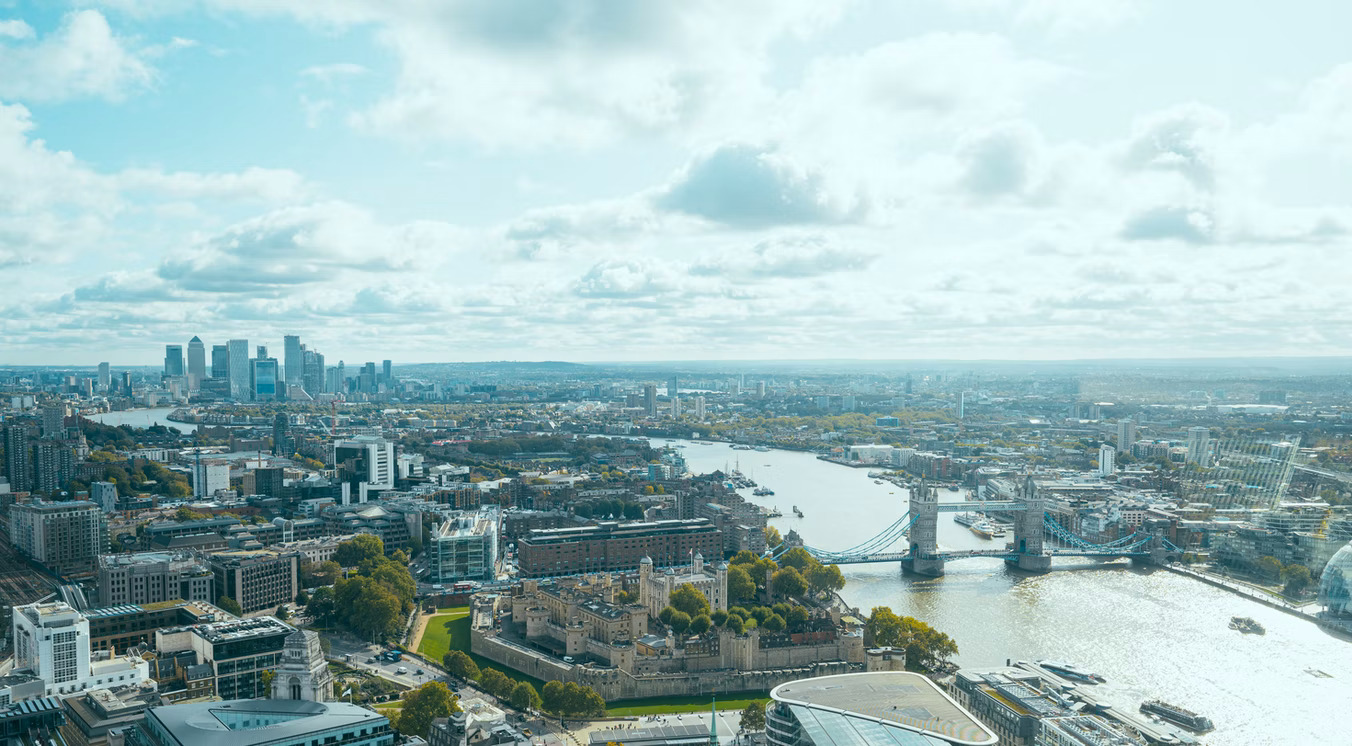
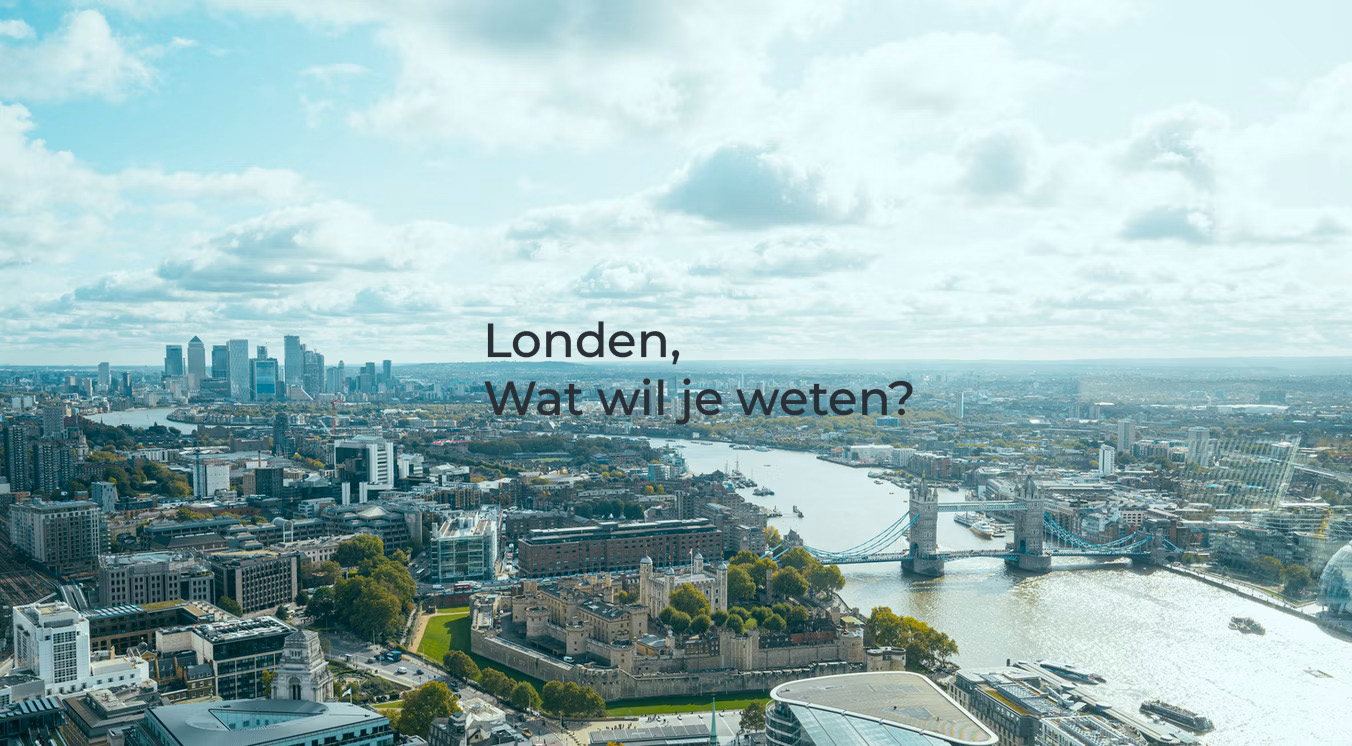
13-4-22
teksten en opmaak deel 1

Changed region(s): [[0.3417, 0.4316, 0.6834, 0.5858]]

diff --git a/Index.html b/Index.html
@@ -27,16 +27,28 @@
 </head>
 <body>
     <!-- Navigatie balk -->
-    <div class="topnav">
+    <!-- <div class="topnav">
         <a class="links"> <b>Londen, wat wil je weten?</b></a>
         <div class="topnav-right">
             <a class="rechts" href="#home">Over Londen</a>
             <a class="rechts" href="#news">Kaart en statistiek</a>
         </div>
-    </div>
+    </div> -->
 
     <!-- Header image -->
     <div id="header"> </div>
+
+    <!-- Informatie over London-->
+    <h1>Over Londen</h1>
+        <p>
+            In de regio 'Groot-Londen', waarvan de begrenzing vaak gelijk wordt gesteld aan die van de stad Londen, wonen bijna 8,7 miljoen mensen. De hele regio van de metropool strekt zich evenwel nog ver uit buiten de grenzen van Groot-Londen. 
+            De grenzen hiervan zijn niet gemakkelijk aan te geven, het aantal inwoners ligt tussen de 12 en 14 miljoen. Tussen 1831 en 1925 was Londen de grootste stad ter wereld.
+            De stad is, behalve de hoofdstad en de grootste stad van het Verenigd Koninkrijk, ook het politieke, economische en culturele centrum van dat land. Ook in Europa en de wereld vervult ze een belangrijke functie op diverse gebieden: 
+            Londen wordt als een van de vier traditionele alfa-wereldsteden beschouwd, samen met Parijs, Tokio en New York.
+            Vooral in de 18e en de 19e eeuw was Londen als hoofdstad van het Britse Rijk het absolute politieke en economische machtscentrum van de wereld.
+            Londen telt vier plaatsen die op de Werelderfgoedlijst van de UNESCO staan: de Tower of London, de historische nederzetting van Greenwich, de Kew Gardens, 
+            en een gezamenlijke inschrijving bestaande uit het Palace of Westminster, Westminster Abbey en Saint Margaret's Church.
+        </p>
 
     <!-- Map grid -->
     <div class="grid-container">
@@ -44,22 +56,30 @@
             <div id="mapLeaflet" class="map"></div>
                 <script src="./Javascript/main.js"></script>
             <h1>Map of the city of London</h1>
+            <p>Wist je dat Londen een oppervlakte heeft van 1572 vierkante kilometers? Dat is minimaal vier keer de grote van Rotterdam!</p>
         </div>
         <div class="card">
             <div id="mapLibre" class="map"></div>
                 <script src="./Javascript/Maplibre.js"></script>
-            <p>Map text</p>
+                      <h1>Het Verenigd Koninkrijk</h1>
+                          <p>Het Verenigd Koninkrijk heeft in totaal ongeveer 65,8 miljoen inwoners met een oppervlate van 242.495 vierkante kilometer. </p>
         </div>
         <div class="card" class="map">
             <div id="openLayers" class="map"></div>
                 <script src="./Javascript/openlayers.js"></script>
-            <p>Map text</p>
+                     <h1>Map of the city of London</h1>
+                         <p>Map text</p>
         </div>
         <div class="card" class="map">
-            <iframe id="gmap_canvas" class="map" src="https://maps.google.com/maps?q=londen&t=&z=13&ie=UTF8&iwloc=&output=embed" frameborder="0" scrolling="no" marginheight="0" marginwidth="0"></iframe>
-            <p>Map text</p>
+            <iframe id="gmap_canvas" class="map" src="https://maps.google.com/maps?q=londen&t=&z=13&ie=UTF8&iwloc=&output=embed" frameborder="0"></iframe>
+               <h1>Map of the city of London</h1>
+                  <p>Map text</p>
         </div>
     </div>
+
+    <footer>
+        <p>Gemaakt door Krista de Moor</p>
+    </footer>
 
 </body>
 </html>

diff --git a/CSS/index.css b/CSS/index.css
@@ -12,12 +12,19 @@
     background-repeat: no-repeat; 
     background-size: cover; 
     width: 2000px;
-    height: 1000px;
+    height: 980px;
 }
 
 body {
-  margin: 0;
-  font-family: Arial, Helvetica, sans-serif;
+	font-family: 'Montserrat', sans-serif;
+	background-color: #ffffff;
+	margin-top: 0px;
+	margin-right: 0px;
+	margin-bottom: 0px;
+	margin-left: 0px;
+	font-style: normal;
+	font-weight: 200;
+	width: 100%;
 }
 
 .topnav {
@@ -48,6 +55,7 @@ body {
 .links {
   background-color: #ffffff;
   color: rgb(0, 0, 0);
+
 }
 
 .topnav-right {
@@ -72,3 +80,4 @@ body {
   height: 400px;
   width: 100%;
 }
+

diff --git a/css/index.css b/css/index.css
@@ -12,12 +12,19 @@
     background-repeat: no-repeat; 
     background-size: cover; 
     width: 2000px;
-    height: 1000px;
+    height: 980px;
 }
 
 body {
-  margin: 0;
-  font-family: Arial, Helvetica, sans-serif;
+	font-family: 'Montserrat', sans-serif;
+	background-color: #ffffff;
+	margin-top: 0px;
+	margin-right: 0px;
+	margin-bottom: 0px;
+	margin-left: 0px;
+	font-style: normal;
+	font-weight: 200;
+	width: 100%;
 }
 
 .topnav {
@@ -48,6 +55,7 @@ body {
 .links {
   background-color: #ffffff;
   color: rgb(0, 0, 0);
+
 }
 
 .topnav-right {
@@ -72,3 +80,4 @@ body {
   height: 400px;
   width: 100%;
 }
+

diff --git a/Javascript/Maplibre.js b/Javascript/Maplibre.js
@@ -1,6 +1,6 @@
 var mapLibre = new maplibregl.Map({
     container: 'mapLibre',
     style: 'https://demotiles.maplibre.org/style.json', // stylesheet location
-    center: [-74.5, 40], // starting position [lng, lat]
-    zoom: 9 // starting zoom
+    center: [-3.435973, 55.378051], // starting position [lng, lat]
+    zoom: 3 // starting zoom
 });

diff --git a/Javascript/openlayers.js b/Javascript/openlayers.js
@@ -6,7 +6,7 @@ var map = new ol.Map({
     })
   ],
   view: new ol.View({
-    center: ol.proj.fromLonLat([37.41, 8.82]),
+    center: ol.proj.fromLonLat([-0.140076, 51.502077]),
     zoom: 4
   })
 });
